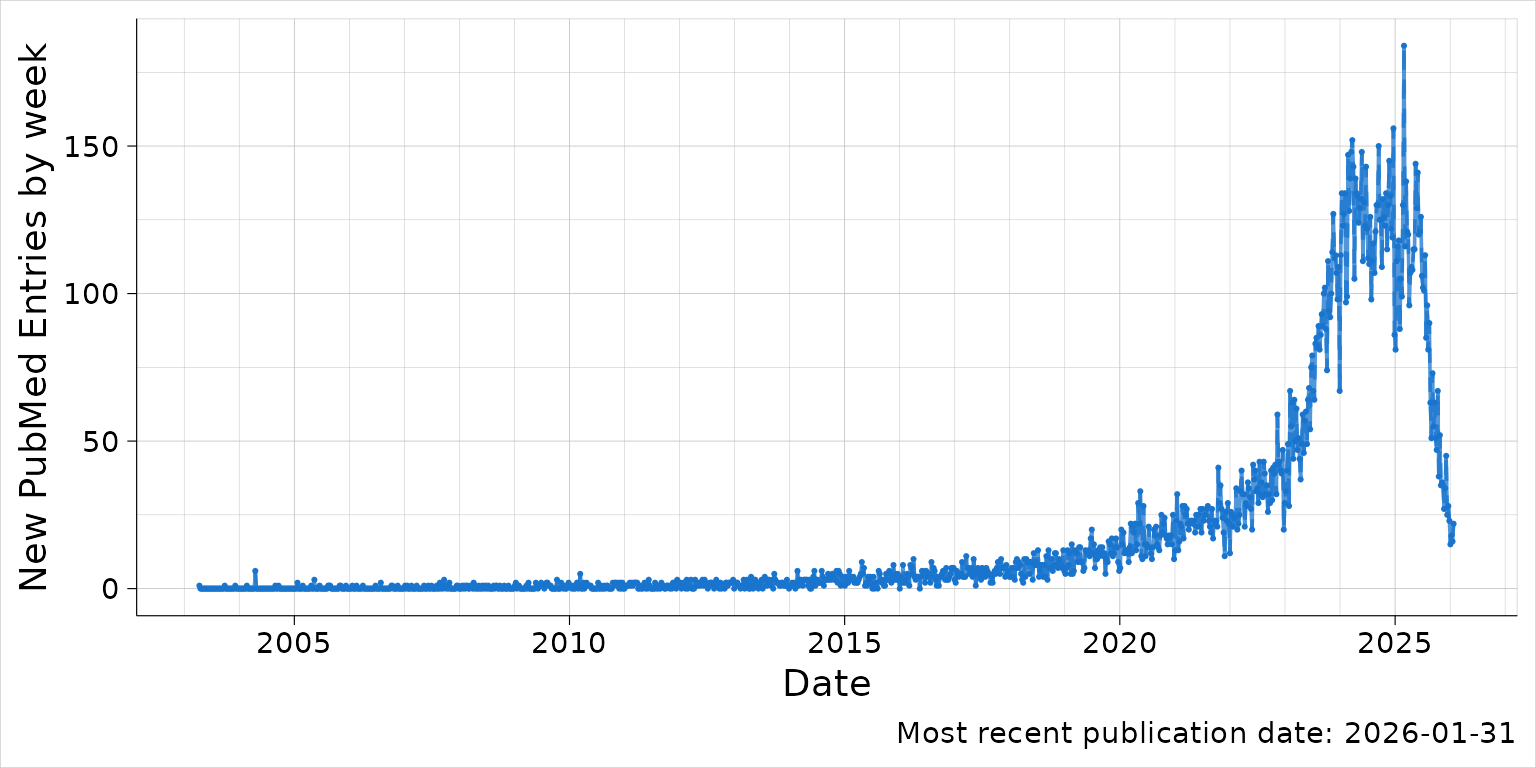
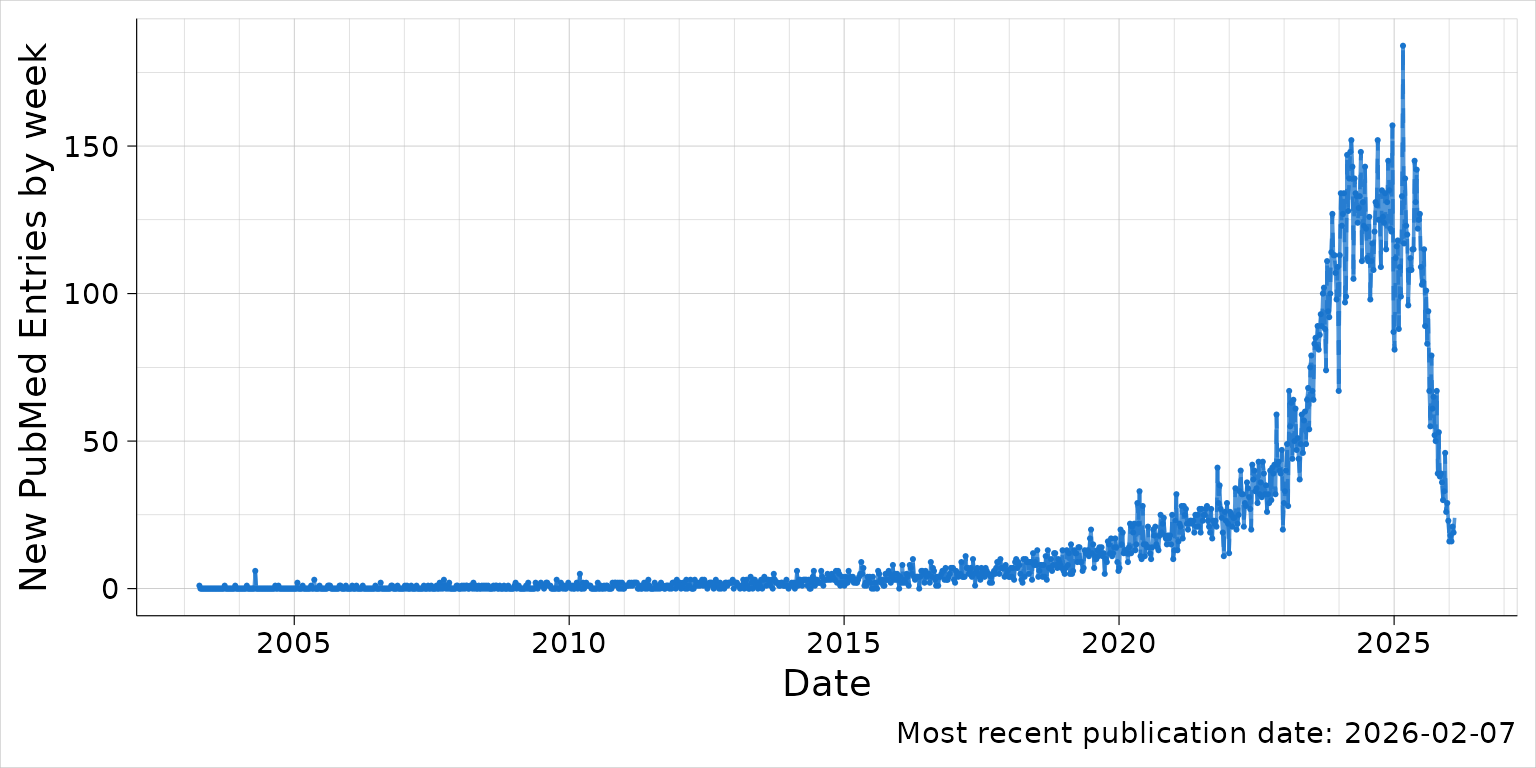
Deploying to gh-pages from @ explodecomputer/PubmedPlot@068eacdf5acdc66ea1c8a3d5640505ac4a8cb4ee 🚀

diff --git a/articles/mr.html b/articles/mr.html
@@ -183,7 +183,7 @@
 <span><span class="co">#&gt; Fetching records 2501 to 2979 </span></span>
 <span><span class="co">#&gt; Searching for year: 2024 </span></span>
 <span><span class="co">#&gt; Search term: "Mendelian randomisation" [tiab] OR "Mendelian randomization" [tiab] AND ("2024/01/01"[dp] : "2024/12/31"[dp]) </span></span>
-<span><span class="co">#&gt; Found 6435 articles matching the search term.</span></span>
+<span><span class="co">#&gt; Found 6434 articles matching the search term.</span></span>
 <span><span class="co">#&gt; Fetching records 1 to 500 </span></span>
 <span><span class="co">#&gt; Fetching records 501 to 1000 </span></span>
 <span><span class="co">#&gt; Fetching records 1001 to 1500 </span></span>
@@ -196,10 +196,10 @@
 <span><span class="co">#&gt; Fetching records 4501 to 5000 </span></span>
 <span><span class="co">#&gt; Fetching records 5001 to 5500 </span></span>
 <span><span class="co">#&gt; Fetching records 5501 to 6000 </span></span>
-<span><span class="co">#&gt; Fetching records 6001 to 6435 </span></span>
+<span><span class="co">#&gt; Fetching records 6001 to 6434 </span></span>
 <span><span class="co">#&gt; Searching for year: 2025 </span></span>
 <span><span class="co">#&gt; Search term: "Mendelian randomisation" [tiab] OR "Mendelian randomization" [tiab] AND ("2025/01/01"[dp] : "2025/12/31"[dp]) </span></span>
-<span><span class="co">#&gt; Found 7115 articles matching the search term.</span></span>
+<span><span class="co">#&gt; Found 7117 articles matching the search term.</span></span>
 <span><span class="co">#&gt; Fetching records 1 to 500 </span></span>
 <span><span class="co">#&gt; Fetching records 501 to 1000 </span></span>
 <span><span class="co">#&gt; Fetching records 1001 to 1500 </span></span>
@@ -214,12 +214,12 @@
 <span><span class="co">#&gt; Fetching records 5501 to 6000 </span></span>
 <span><span class="co">#&gt; Fetching records 6001 to 6500 </span></span>
 <span><span class="co">#&gt; Fetching records 6501 to 7000 </span></span>
-<span><span class="co">#&gt; Fetching records 7001 to 7115 </span></span>
+<span><span class="co">#&gt; Fetching records 7001 to 7117 </span></span>
 <span><span class="co">#&gt; Searching for year: 2026 </span></span>
 <span><span class="co">#&gt; Search term: "Mendelian randomisation" [tiab] OR "Mendelian randomization" [tiab] AND ("2026/01/01"[dp] : "2026/12/31"[dp]) </span></span>
-<span><span class="co">#&gt; Found 624 articles matching the search term.</span></span>
+<span><span class="co">#&gt; Found 789 articles matching the search term.</span></span>
 <span><span class="co">#&gt; Fetching records 1 to 500 </span></span>
-<span><span class="co">#&gt; Fetching records 501 to 624</span></span>
+<span><span class="co">#&gt; Fetching records 501 to 789</span></span>
 <span><span class="co"># write_json(a, "pubmed_abstracts.json", pretty=TRUE)</span></span>
 <span><span class="va">b</span> <span class="op">&lt;-</span> <span class="fu"><a href="../reference/group_by_time_interval.html">group_by_time_interval</a></span><span class="op">(</span><span class="va">a</span><span class="op">)</span></span>
 <span><span class="va">p</span> <span class="op">&lt;-</span> <span class="fu"><a href="../reference/plot_time_interval.html">plot_time_interval</a></span><span class="op">(</span><span class="va">b</span><span class="op">)</span></span></code></pre></div>

diff --git a/articles/mr.md b/articles/mr.md
@@ -121,7 +121,7 @@ a <- PubmedPlot::search_term_by_year('"Mendelian randomisation" [tiab] OR "Mende
 #> Fetching records 2501 to 2979 
 #> Searching for year: 2024 
 #> Search term: "Mendelian randomisation" [tiab] OR "Mendelian randomization" [tiab] AND ("2024/01/01"[dp] : "2024/12/31"[dp]) 
-#> Found 6435 articles matching the search term.
+#> Found 6434 articles matching the search term.
 #> Fetching records 1 to 500 
 #> Fetching records 501 to 1000 
 #> Fetching records 1001 to 1500 
@@ -134,10 +134,10 @@ a <- PubmedPlot::search_term_by_year('"Mendelian randomisation" [tiab] OR "Mende
 #> Fetching records 4501 to 5000 
 #> Fetching records 5001 to 5500 
 #> Fetching records 5501 to 6000 
-#> Fetching records 6001 to 6435 
+#> Fetching records 6001 to 6434 
 #> Searching for year: 2025 
 #> Search term: "Mendelian randomisation" [tiab] OR "Mendelian randomization" [tiab] AND ("2025/01/01"[dp] : "2025/12/31"[dp]) 
-#> Found 7115 articles matching the search term.
+#> Found 7117 articles matching the search term.
 #> Fetching records 1 to 500 
 #> Fetching records 501 to 1000 
 #> Fetching records 1001 to 1500 
@@ -152,12 +152,12 @@ a <- PubmedPlot::search_term_by_year('"Mendelian randomisation" [tiab] OR "Mende
 #> Fetching records 5501 to 6000 
 #> Fetching records 6001 to 6500 
 #> Fetching records 6501 to 7000 
-#> Fetching records 7001 to 7115 
+#> Fetching records 7001 to 7117 
 #> Searching for year: 2026 
 #> Search term: "Mendelian randomisation" [tiab] OR "Mendelian randomization" [tiab] AND ("2026/01/01"[dp] : "2026/12/31"[dp]) 
-#> Found 624 articles matching the search term.
+#> Found 789 articles matching the search term.
 #> Fetching records 1 to 500 
-#> Fetching records 501 to 624
+#> Fetching records 501 to 789
 # write_json(a, "pubmed_abstracts.json", pretty=TRUE)
 b <- group_by_time_interval(a)
 p <- plot_time_interval(b)
